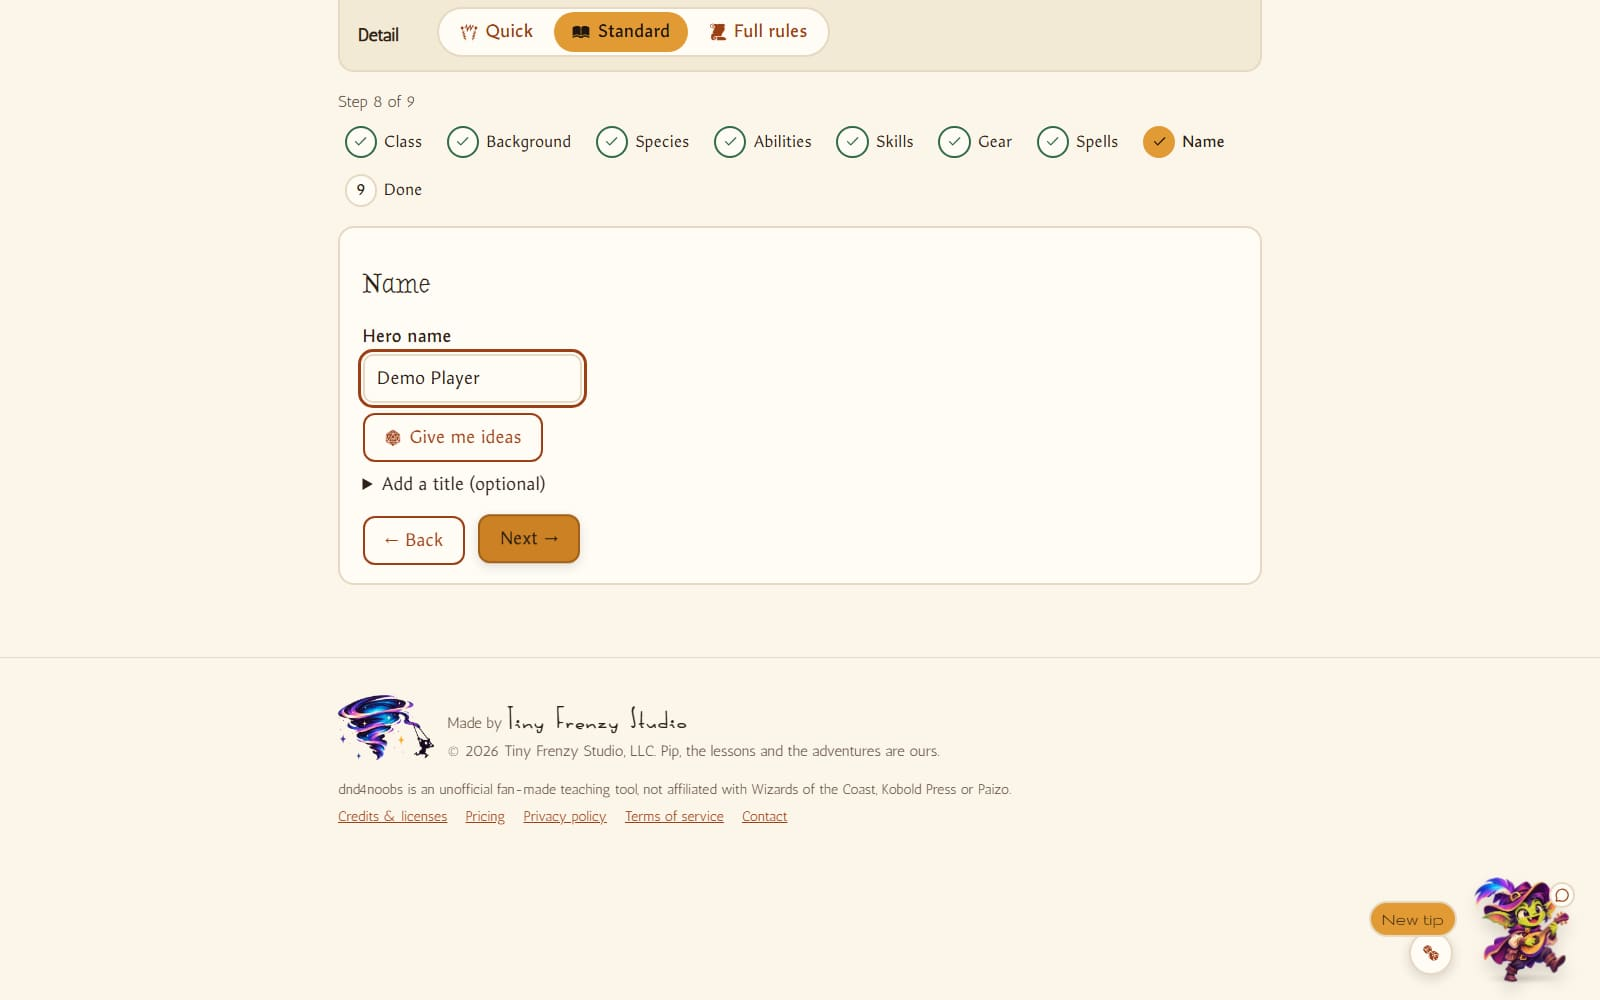
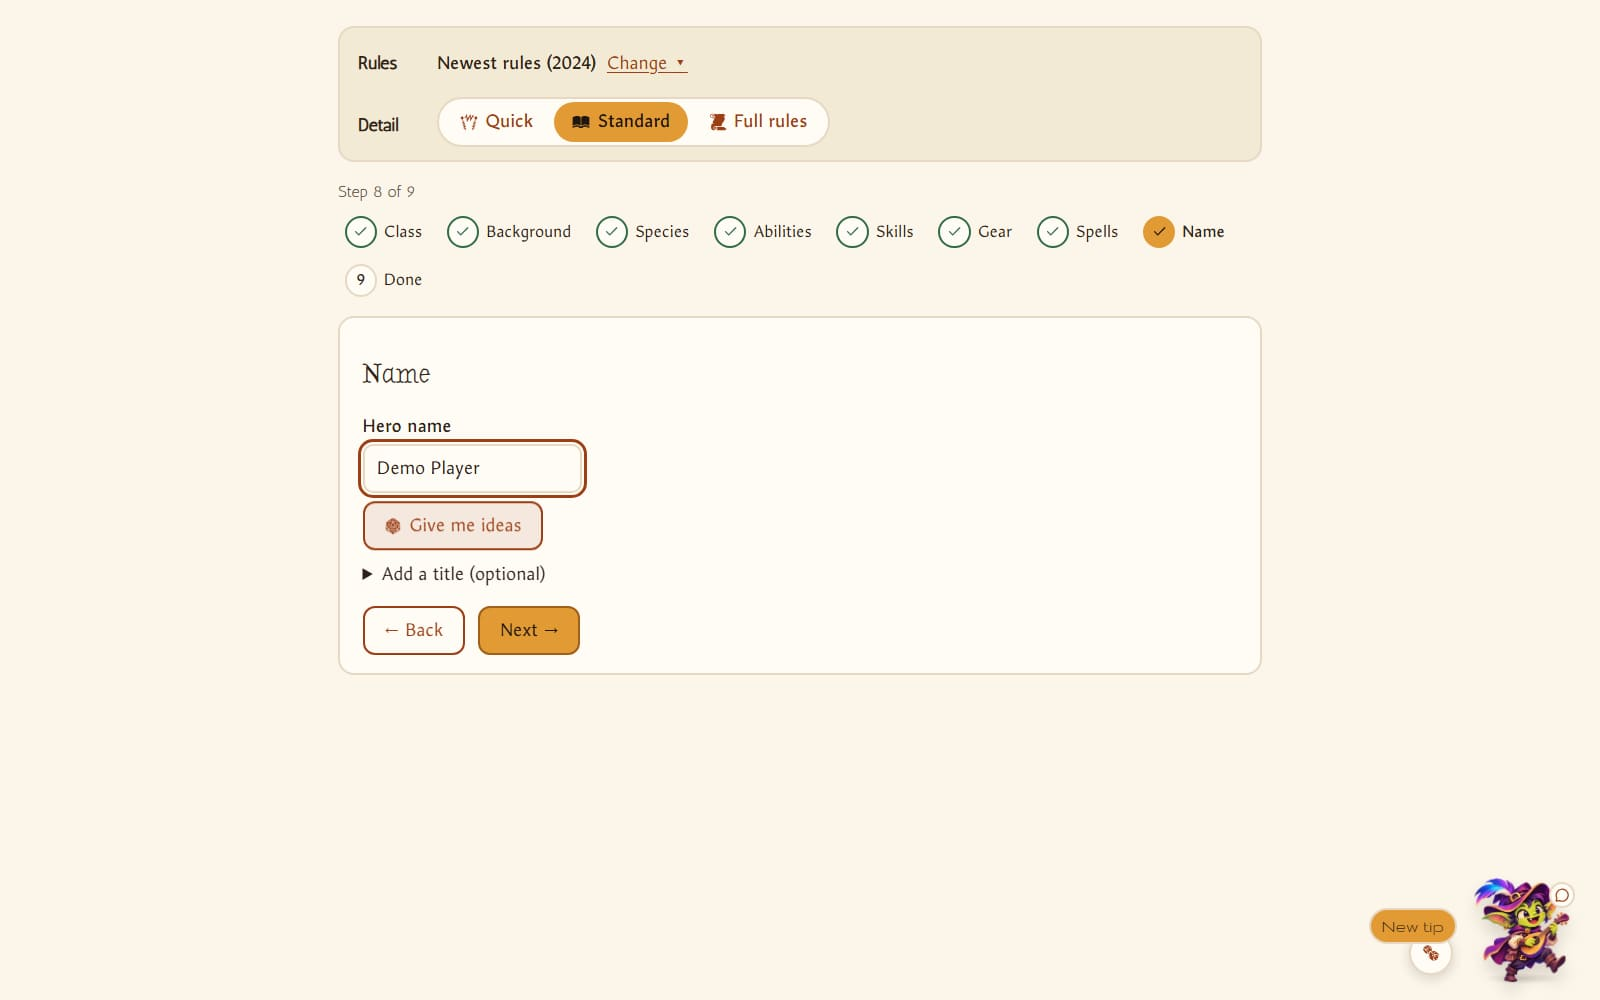
fix: dnd4noobs capture reframing, rolled d20 in learn shot, copy fixes

Changed region(s): [[0.1875, 0.0, 0.7812, 0.837], [0.8438, 0.868, 0.9688, 0.961]]

diff --git a/scripts/capture-dnd4noobs.ts b/scripts/capture-dnd4noobs.ts
@@ -7,12 +7,13 @@
  * own repository, without switching branches: `npx wrangler d1 migrations
  * apply dnd4noobs --local`, then `npm run dev`, which listens on :3210), then:
  *
- *   npm run capture:dnd4noobs [-- http://localhost:3210]
+ *   npm run capture:dnd4noobs [-- http://localhost:3210 [learn,create]]
  *
+ * The optional second argument is a comma-separated list of shots to redo.
  * All four pages work signed out, so no account is needed and nothing from a
- * real profile can show. If a page ever needs sign-in, pass DND_EMAIL and
- * DND_PASSWORD in the environment (never in a committed file) and extend
- * `signIn` below. Every hero name typed here is made up. Look at every
+ * real profile can show. If that ever changes, a sign-in step would need
+ * adding here (credentials from the environment, never a committed file).
+ * Every hero name typed here is made up. Look at every
  * picture before adding it to the gallery: no real names, no email addresses.
  *
  * Encoding goes through scripts/lib/imageLadder.ts, as the other capture and
@@ -24,6 +25,7 @@ import { resolve } from 'node:path'
 import { generateWithFallback, LadderReport } from './lib/imageLadder'
 
 const BASE = process.argv[2] ?? 'http://localhost:3210'
+const ONLY = process.argv[3]?.split(',')
 const VIEWPORT = { width: 1600, height: 1000 }
 /** A made-up hero name; nothing that could be a real child's. */
 const HERO_NAME = 'Demo Player'
@@ -73,6 +75,13 @@ async function buildHeroToName(page: Page) {
   }
   await page.locator('main input[type=text], main input:not([type])').first().fill(HERO_NAME)
   await page.waitForTimeout(600)
+  // Reframe: drop the footer, then scroll so the Detail bar, step bar and Name card sit
+  // in view with a little room above (the site header is off-screen).
+  await page.addStyleTag({ content: 'footer { display: none !important; } main { padding-bottom: 700px !important; }' })
+  const detail = page.getByText('Rules', { exact: true }).first()
+  const box = await detail.boundingBox()
+  if (box) await page.evaluate((dy) => window.scrollBy(0, dy), box.y - 50)
+  await page.waitForTimeout(500)
 }
 
 /** Picks the pregenerated Bruna (a made-up hero) and plays on to a scene mid-adventure. */
@@ -80,15 +89,19 @@ async function playIntoAdventure(page: Page) {
   await page.getByText(/Bruna/).click()
   await page.waitForTimeout(1500)
   const go = page.getByRole('button', { name: /^Continue →/ })
-  for (let i = 0; i < 1; i++) {
-    await go.click()
-    await page.waitForTimeout(800)
-  }
+  await go.click()
+  await page.waitForTimeout(800)
+}
+
+/** Rolls the d20 so the lesson shows a result rather than the empty pre-roll card. */
+async function rollTheDie(page: Page) {
+  await page.getByRole('button', { name: /Roll 1d20/ }).click()
+  await page.waitForTimeout(2500)
 }
 
 const SHOTS: Shot[] = [
   { name: 'hero', path: '/' },
-  { name: 'learn', path: '/learn/meet-the-d20' },
+  { name: 'learn', path: '/learn/meet-the-d20', prepare: rollTheDie },
   { name: 'create', path: '/create', prepare: buildHeroToName },
   { name: 'adventure', path: '/tutorials/lost-lute/play', prepare: playIntoAdventure },
 ]
@@ -100,6 +113,7 @@ async function main() {
   const browser = await chromium.launch()
   try {
     for (const shot of SHOTS) {
+      if (ONLY && !ONLY.includes(shot.name)) continue
       // A fresh context each time: no cookies, so no signed-in profile can show.
       const context = await browser.newContext({ viewport: VIEWPORT, deviceScaleFactor: 1 })
       const page = await context.newPage()

diff --git a/content/projects.ts b/content/projects.ts
@@ -375,11 +375,11 @@ export const projects: Project[] = [
       gallery: [
         {
           src: '/media/dnd4noobs/learn.jpg',
-          alt: 'The “Meet the d20” lesson: a short passage about a hero reaching for a ledge, a Roll 1d20 button to try it, and Pip in the corner',
+          alt: 'The “Meet the d20” lesson: a short passage about a hero reaching for a ledge, a Roll 1d20 button with a 4 already rolled beneath it, and Pip in the corner',
         },
         {
           src: '/media/dnd4noobs/create.jpg',
-          alt: 'The hero builder on its Name step, with the first seven of nine steps ticked off and “Demo Player” typed as the hero name',
+          alt: 'The hero builder on its Name step, with its rules and detail settings above, the first seven of nine steps ticked off and “Demo Player” typed as the hero name',
         },
         {
           src: '/media/dnd4noobs/adventure.jpg',

diff --git a/components/world/models/Tavern.tsx b/components/world/models/Tavern.tsx
@@ -98,7 +98,7 @@ function Sign({ colour }: { colour: Colours }) {
 }
 
 /**
- * dnd4noobs, a site that teaches the owner's family to play Dungeons &
+ * dnd4noobs, a site that teaches kids and new players to play Dungeons &
  * Dragons, with Pip, a goblin bard, as its guide. Its landmark is the tavern
  * every adventure starts in: a timber-framed tavern of a storey and a half
  * on a stone footing, plastered walls between dark timbers, its half storey
